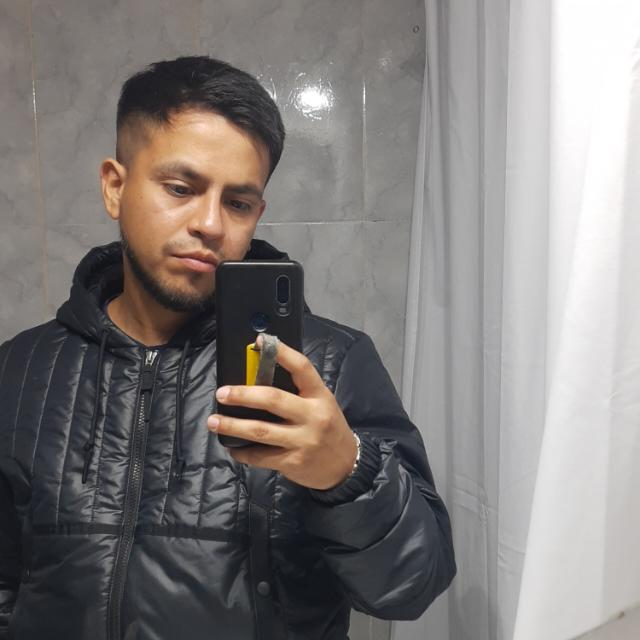
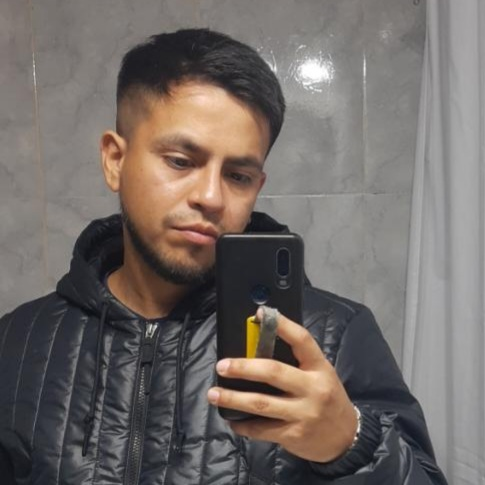
Se modificó el titulo

diff --git a/pages/nosotros.html b/pages/nosotros.html
@@ -5,6 +5,7 @@
     <meta name="viewport" content="width=device-width, initial-scale=1.0">
     <title>Document</title>
     <link href="https://cdn.jsdelivr.net/npm/bootstrap@5.0.2/dist/css/bootstrap.min.css" rel="stylesheet" integrity="sha384-EVSTQN3/azprG1Anm3QDgpJLIm9Nao0Yz1ztcQTwFspd3yD65VohhpuuCOmLASjC" crossorigin="anonymous">
+    <link rel="stylesheet" href="/css/nosotros.css">
 </head>
 <body>
 
@@ -12,7 +13,7 @@
 
     <main>
         <div class="container py-5">
-            <h1 class="text-center mb-5">Te contamos un poco sobre quienes somos...</h1>
+            <h1 class="text-center mb-5 fw-bold text-decoration-underline" id="titulo">Conocé al squad💻</h1>
             
             <div class="row row-cols-1 row-cols-md-2 row-cols-lg-3 g-4">
                 <!-- Card 1 - Alvaro Medina -->

diff --git a/css/nosotros.css b/css/nosotros.css
@@ -1,6 +1,9 @@
-.card-img-top {
+/* .card-img-top {
     width: 100%;
     height: 200px; 
     object-fit: cover;
-}
+} */
 
+#titulo {
+    text-shadow: 2px 2px 4px rgba(0, 0, 0, 0.5);
+}
